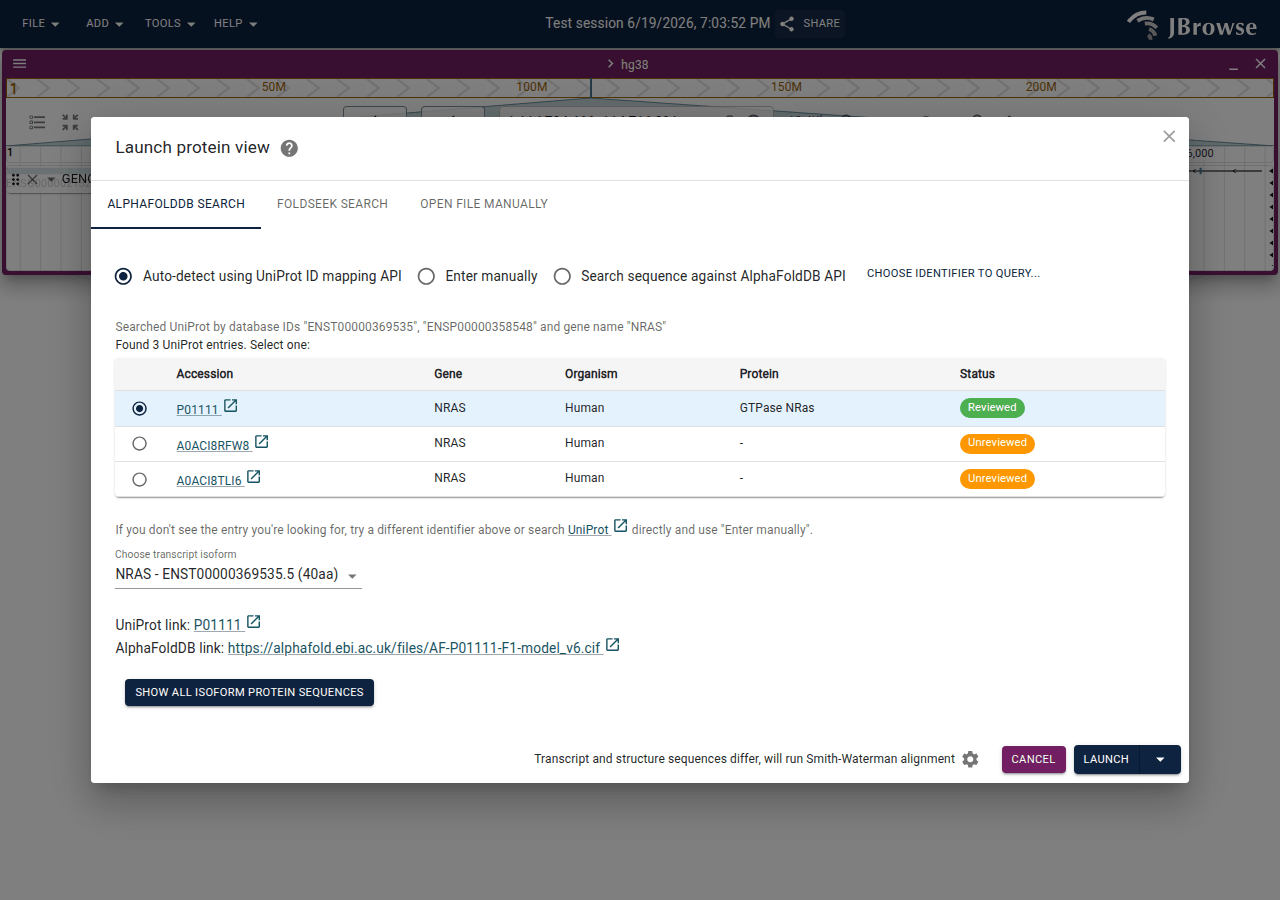
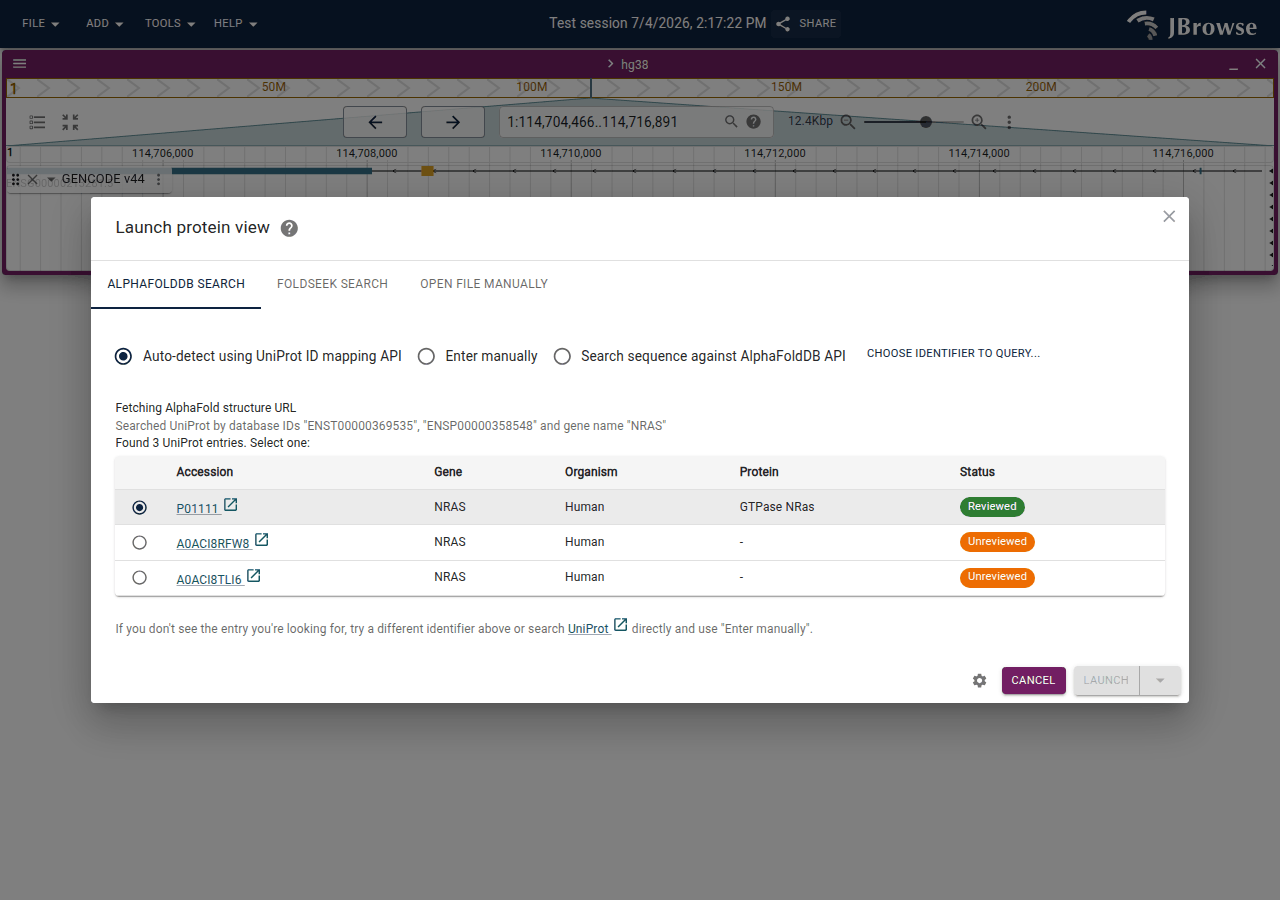
refactor: centralize 1D/MSA launch availability gating
Both ProteinViewActions and FoldseekActionMenu duplicated the rules for
when the 1D-annotation and MSA launches are available (1D needs an
add-tracks session + uniprotId; MSA needs the msaview plugin + uniprotId),
a drift-prone invariant. Extract getConditionalProteinLaunches, which
returns each as a ready-to-run thunk or undefined, so an unavailable action
is unrepresentable rather than a menu item that silently no-ops. This also
tightens the AlphaFold MSA option, which previously showed on plugin
presence alone.

safeLaunch/runLaunch now accept () => unknown since they ignore the return
value, letting the launch thunks pass through without void-wrapping.

Changed region(s): [[0.0625, 0.1244, 0.9375, 0.9022], [0.4375, 0.0, 0.6562, 0.0311]]

diff --git a/src/LaunchProteinView/components/ProteinViewActions.tsx b/src/LaunchProteinView/components/ProteinViewActions.tsx
@@ -1,7 +1,6 @@
 import React, { useState } from 'react'
 
 import { ErrorMessage } from '@jbrowse/core/ui'
-import { isSessionWithAddTracks } from '@jbrowse/core/util'
 import ArrowDropDownIcon from '@mui/icons-material/ArrowDropDown'
 import SettingsIcon from '@mui/icons-material/Settings'
 import { Button, ButtonGroup, IconButton, Tooltip, Typography } from '@mui/material'
@@ -12,11 +11,9 @@ import SequenceMismatchNotice from './SequenceMismatchNotice'
 import { useSafeLaunch } from '../hooks/useSafeLaunch'
 import { getLaunchMissingReasons } from '../utils/launchHelpers'
 import {
-  hasMsaViewPlugin,
-  launch1DProteinView,
+  getConditionalProteinLaunches,
   launch3DProteinView,
   launch3DProteinViewWithMsa,
-  launchMsaView,
 } from '../utils/launchViewUtils'
 
 import type { AlignmentAlgorithm } from '../../ProteinView/types'
@@ -82,15 +79,12 @@ export default function ProteinViewActions({
 
   const { runLaunch, launchError } = useSafeLaunch(handleClose, closeMenu)
 
-  const baseParams = {
+  const launch3DParams = {
     session,
     view,
     feature,
     selectedTranscript,
     uniprotId,
-  }
-  const launch3DParams = {
-    ...baseParams,
     url,
     userProvidedTranscriptSequence: userSelectedProteinSequence?.seq,
     alignmentAlgorithm,
@@ -100,20 +94,14 @@ export default function ProteinViewActions({
     launch3DProteinView(launch3DParams)
   })
 
-  const handleLaunchMsa = runLaunch(() => {
-    launchMsaView(baseParams)
+  const { launch1D, launchMsa } = getConditionalProteinLaunches({
+    session,
+    view,
+    feature,
+    selectedTranscript,
+    uniprotId,
+    confidenceUrl,
   })
-
-  const handleLaunch3DWithMsa = runLaunch(() => {
-    launch3DProteinViewWithMsa(launch3DParams)
-  })
-
-  // The 1D annotation view needs an add-tracks session and a known uniprotId.
-  // Narrowing here is the single source of truth: the option only exists when
-  // both hold, and its handler is type-checked against those narrowed values —
-  // so a 1D launch that can't work is unrepresentable rather than a silent
-  // no-op.
-  const addTracksSession = isSessionWithAddTracks(session) ? session : undefined
 
   const launchOptions = [
     {
@@ -123,39 +111,30 @@ export default function ProteinViewActions({
         'View protein structure with genome-to-structure coordinate mapping',
       onClick: handleLaunch3DView,
     },
-    ...(addTracksSession && uniprotId
+    ...(launch1D
       ? [
           {
             key: '1d',
             title: 'Launch 1D protein annotation view',
             description:
               'View protein features and annotations as a linear track',
-            onClick: runLaunch(() =>
-              launch1DProteinView({
-                session: addTracksSession,
-                view,
-                feature,
-                selectedTranscript,
-                uniprotId,
-                confidenceUrl,
-              }),
-            ),
+            onClick: runLaunch(launch1D),
           },
         ]
       : []),
-    ...(hasMsaViewPlugin()
+    ...(launchMsa
       ? [
           {
             key: 'msa',
             title: 'Launch MSA view',
             description: 'View AlphaFold a3m multiple sequence alignment',
-            onClick: handleLaunchMsa,
+            onClick: runLaunch(launchMsa),
           },
           {
             key: '3d-msa',
             title: 'Launch 3D structure + MSA view',
             description: 'Launch both views with AlphaFold a3m MSA',
-            onClick: handleLaunch3DWithMsa,
+            onClick: runLaunch(() => launch3DProteinViewWithMsa(launch3DParams)),
           },
         ]
       : []),

diff --git a/src/LaunchProteinView/utils/launchViewUtils.ts b/src/LaunchProteinView/utils/launchViewUtils.ts
@@ -1,3 +1,5 @@
+import { isSessionWithAddTracks } from '@jbrowse/core/util'
+
 import { maybeLaunchSideBySide } from './sideBySide'
 import { getGeneDisplayName, getTranscriptDisplayName } from './util'
 import { launchProteinAnnotationView } from '../components/launchProteinAnnotationView'
@@ -215,6 +217,48 @@ export function launchMsaView({
 
 export function hasMsaViewPlugin() {
   return window.JBrowsePluginMsaView !== undefined
+}
+
+// The 1D-annotation and MSA launches share identical availability rules across
+// the AlphaFold and Foldseek launch menus: the 1D view needs an add-tracks
+// session and a uniprotId, the MSA view needs the msaview plugin and a
+// uniprotId. Returning each as a ready-to-run thunk (or undefined when
+// unavailable) is the single source of truth — an unavailable action is
+// unrepresentable rather than a menu item that silently no-ops.
+export function getConditionalProteinLaunches({
+  session,
+  view,
+  feature,
+  selectedTranscript,
+  uniprotId,
+  confidenceUrl,
+}: LaunchViewParams & { confidenceUrl?: string }) {
+  const addTracksSession = isSessionWithAddTracks(session) ? session : undefined
+  return {
+    launch1D:
+      addTracksSession && uniprotId
+        ? () =>
+            launch1DProteinView({
+              session: addTracksSession,
+              view,
+              feature,
+              selectedTranscript,
+              uniprotId,
+              confidenceUrl,
+            })
+        : undefined,
+    launchMsa:
+      uniprotId && hasMsaViewPlugin()
+        ? () =>
+            launchMsaView({
+              session,
+              view,
+              feature,
+              selectedTranscript,
+              uniprotId,
+            })
+        : undefined,
+  }
 }
 
 export function launch3DProteinViewWithMsa(

diff --git a/src/LaunchProteinView/components/FoldseekActionMenu.tsx b/src/LaunchProteinView/components/FoldseekActionMenu.tsx
@@ -1,18 +1,15 @@
 import React, { useState } from 'react'
 
 import { ErrorMessage } from '@jbrowse/core/ui'
-import { isSessionWithAddTracks } from '@jbrowse/core/util'
 import { Button, Menu, MenuItem } from '@mui/material'
 
 import { useSafeLaunch } from '../hooks/useSafeLaunch'
 import { caCoordsToPdb, hasValidCaCoords } from '../utils/caCoordsToPdb'
 import {
+  getConditionalProteinLaunches,
   getConfidenceUrlFromTarget,
   getUniprotIdFromAlphaFoldTarget,
-  hasMsaViewPlugin,
-  launch1DProteinView,
   launch3DProteinView,
-  launchMsaView,
 } from '../utils/launchViewUtils'
 
 import type { FoldseekAlignment } from '../services/foldseekApi'
@@ -72,18 +69,15 @@ export default function FoldseekActionMenu({
     })
   })
 
-  const handleLaunchMSA = runLaunch(() => {
-    launchMsaView(baseParams)
+  const { launch1D, launchMsa } = getConditionalProteinLaunches({
+    ...baseParams,
+    confidenceUrl: getConfidenceUrlFromTarget(hit.target),
   })
 
   const canLoad = !!hit.structureUrl || hasValidCaCoords(hit.tCa, hit.tSeq)
   if (!canLoad) {
     return <span>-</span>
   }
-
-  // 1D launch needs an add-tracks session and a uniprotId; narrowing both here
-  // gates the menu item and types its handler from a single condition.
-  const addTracksSession = isSessionWithAddTracks(session) ? session : undefined
 
   return (
     <>
@@ -93,24 +87,13 @@ export default function FoldseekActionMenu({
       </Button>
       <Menu anchorEl={anchorEl} open={open} onClose={handleMenuClose}>
         <MenuItem onClick={handleLaunch3D}>Launch 3D protein view</MenuItem>
-        {addTracksSession && uniprotId ? (
-          <MenuItem
-            onClick={runLaunch(() =>
-              launch1DProteinView({
-                session: addTracksSession,
-                view,
-                feature,
-                selectedTranscript,
-                uniprotId,
-                confidenceUrl: getConfidenceUrlFromTarget(hit.target),
-              }),
-            )}
-          >
+        {launch1D ? (
+          <MenuItem onClick={runLaunch(launch1D)}>
             Launch 1D protein annotation view
           </MenuItem>
         ) : null}
-        {uniprotId && hasMsaViewPlugin() ? (
-          <MenuItem onClick={handleLaunchMSA}>
+        {launchMsa ? (
+          <MenuItem onClick={runLaunch(launchMsa)}>
             Launch MSA view (AlphaFoldDB a3m)
           </MenuItem>
         ) : null}

diff --git a/src/LaunchProteinView/hooks/useSafeLaunch.ts b/src/LaunchProteinView/hooks/useSafeLaunch.ts
@@ -9,7 +9,7 @@ import { safeLaunch } from '../utils/launchHelpers'
  */
 export function useSafeLaunch(onSuccess: () => void, onBeforeLaunch?: () => void) {
   const [launchError, setLaunchError] = useState<unknown>()
-  const runLaunch = (fn: () => void | Promise<void>) => () => {
+  const runLaunch = (fn: () => unknown) => () => {
     onBeforeLaunch?.()
     void safeLaunch(fn, onSuccess, setLaunchError)
   }

diff --git a/src/LaunchProteinView/utils/launchHelpers.ts b/src/LaunchProteinView/utils/launchHelpers.ts
@@ -4,7 +4,7 @@
  * fall silently into the React error boundary.
  */
 export async function safeLaunch(
-  fn: () => void | Promise<void>,
+  fn: () => unknown,
   onSuccess?: () => void,
   onError?: (e: unknown) => void,
 ) {